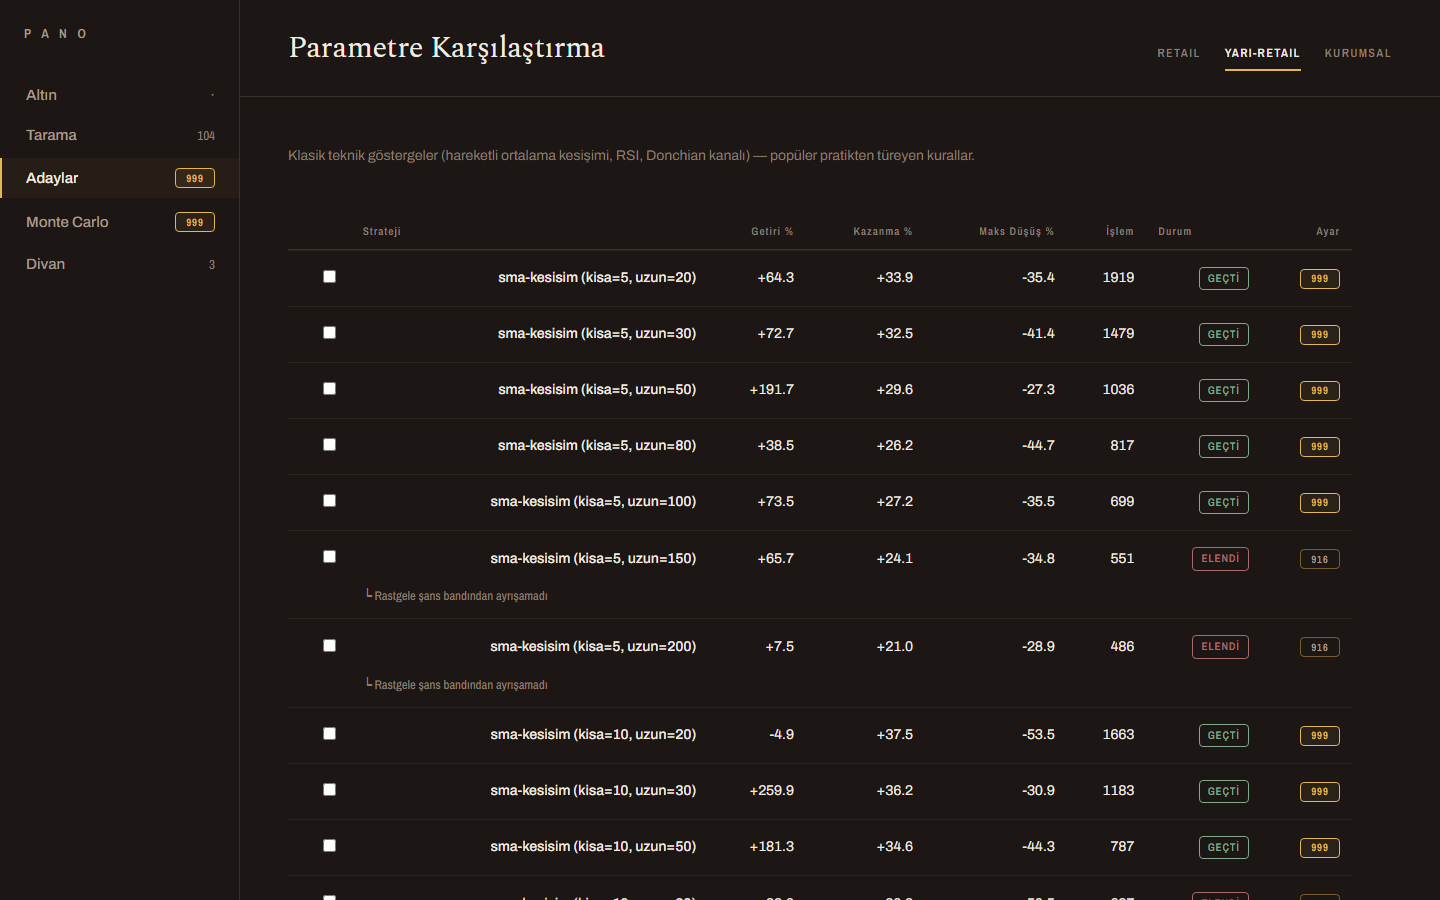
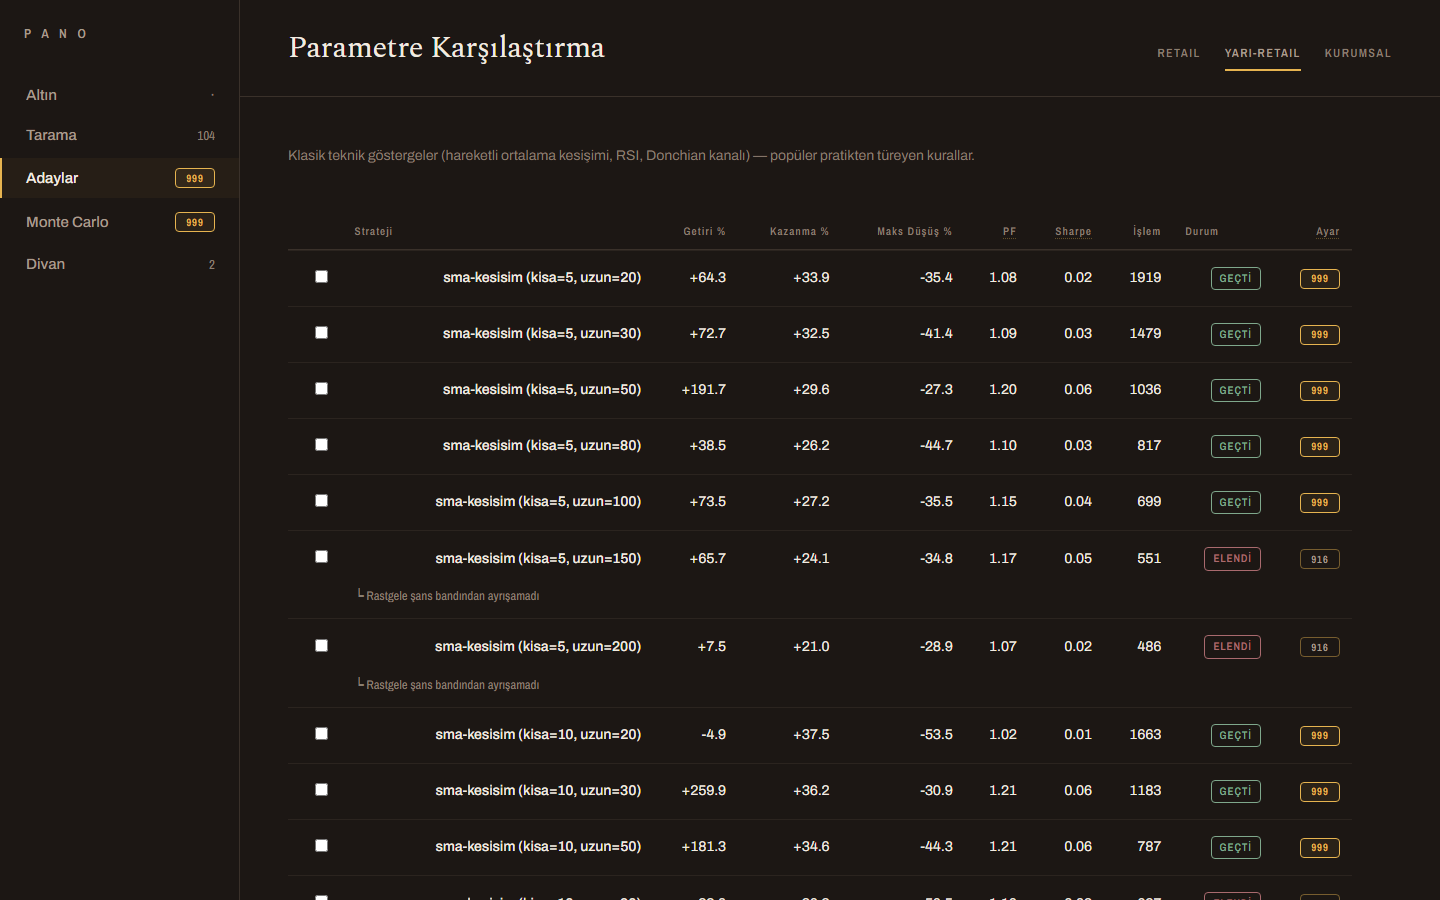
PANO: adaylar tablosuna PF+Sharpe kolonu, Ayar basligina sozluk etiketi
Ana tabloda Getiri/Kazanma/MaksDusus yaninda PF ve Sharpe artik gorunur
(detay cekmecesine gitmeden karsilastirma), colspan 7->9 duzeltildi.
"Ayar" basligi SozlukTerimi'ye sarildi (999/916/585 damgasi zaten
gercek/kasitli - jeweller-ayari metaforu, motor.py sag_kaldi_mi/
eleme_nedeni/dsr/ayrilabildi_mi'den turer - ama gorunur aciklamasi
yalnizca hover tooltip'teydi, artik baslikta tiklanabilir sozluk var).

goruntuler/02-adaylar.png + 08-kurumsal.png yenilendi (yeni kolonlar).

diff --git a/apps/pano/src/components/AdaylarTablosu.vue b/apps/pano/src/components/AdaylarTablosu.vue
@@ -16,9 +16,11 @@
             <th>Getiri %</th>
             <th>Kazanma %</th>
             <th>Maks Düşüş %</th>
+            <th><SozlukTerimi anahtar="pf">PF</SozlukTerimi></th>
+            <th><SozlukTerimi anahtar="sharpe">Sharpe</SozlukTerimi></th>
             <th>İşlem</th>
             <th class="th-sol">Durum</th>
-            <th>Ayar</th>
+            <th><SozlukTerimi anahtar="ayar_damgasi">Ayar</SozlukTerimi></th>
           </tr>
         </thead>
         <tbody>
@@ -38,6 +40,8 @@
               </td>
               <td class="tabular">{{ fmtYuzde(aday.defterler.gercek_maliyet.kazanma_orani_yuzde) }}</td>
               <td class="tabular durdu">{{ fmtYuzde(aday.defterler.gercek_maliyet.max_dd_yuzde) }}</td>
+              <td class="tabular">{{ fmtSayi(aday.defterler.gercek_maliyet.profit_factor) }}</td>
+              <td class="tabular">{{ fmtSayi(aday.defterler.gercek_maliyet.sharpe) }}</td>
               <td class="tabular">{{ aday.defterler.gercek_maliyet.islem_sayisi }}</td>
               <td>
                 <span class="cip" :class="aday.sag_kaldi_mi ? 'cip--gecti' : 'cip--elendi'">
@@ -48,7 +52,7 @@
             </tr>
             <tr v-if="!aday.sag_kaldi_mi" class="satir-neden">
               <td></td>
-              <td colspan="7">└ {{ sadeNeden(aday.eleme_nedeni) }}</td>
+              <td colspan="9">└ {{ sadeNeden(aday.eleme_nedeni) }}</td>
             </tr>
           </template>
         </tbody>
